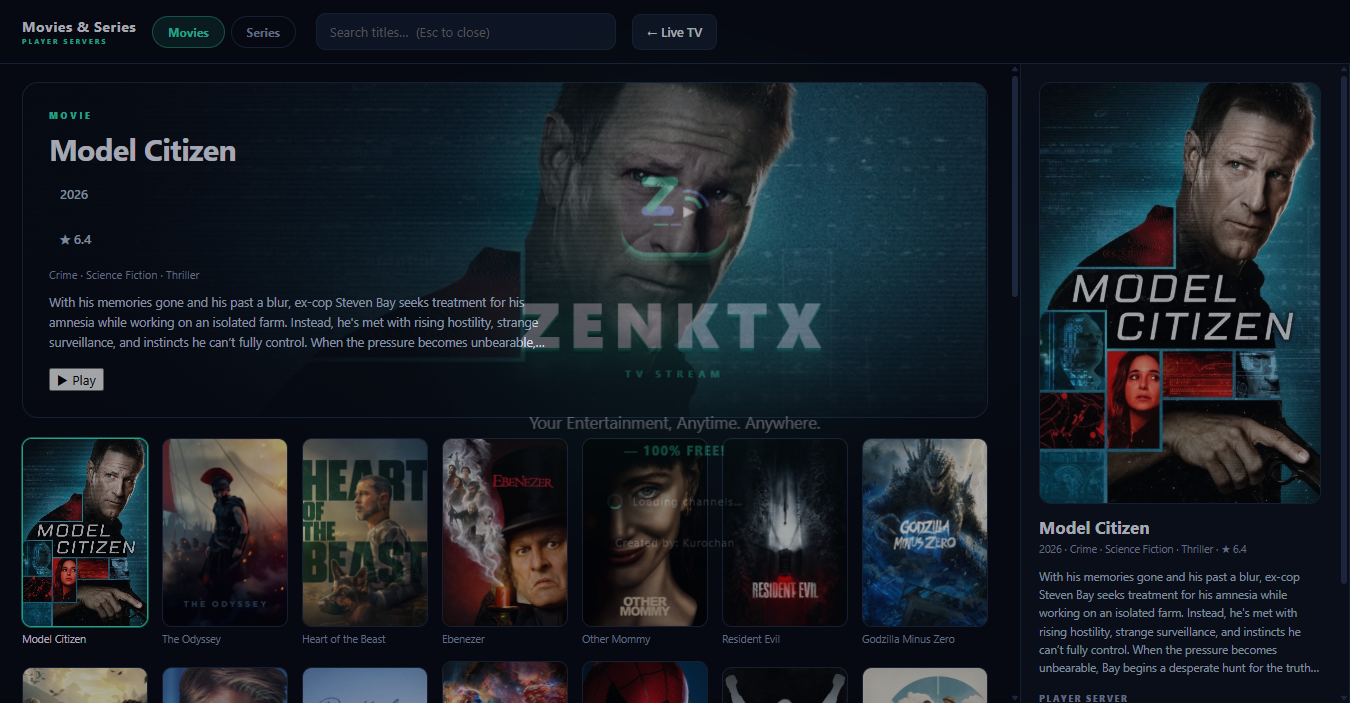
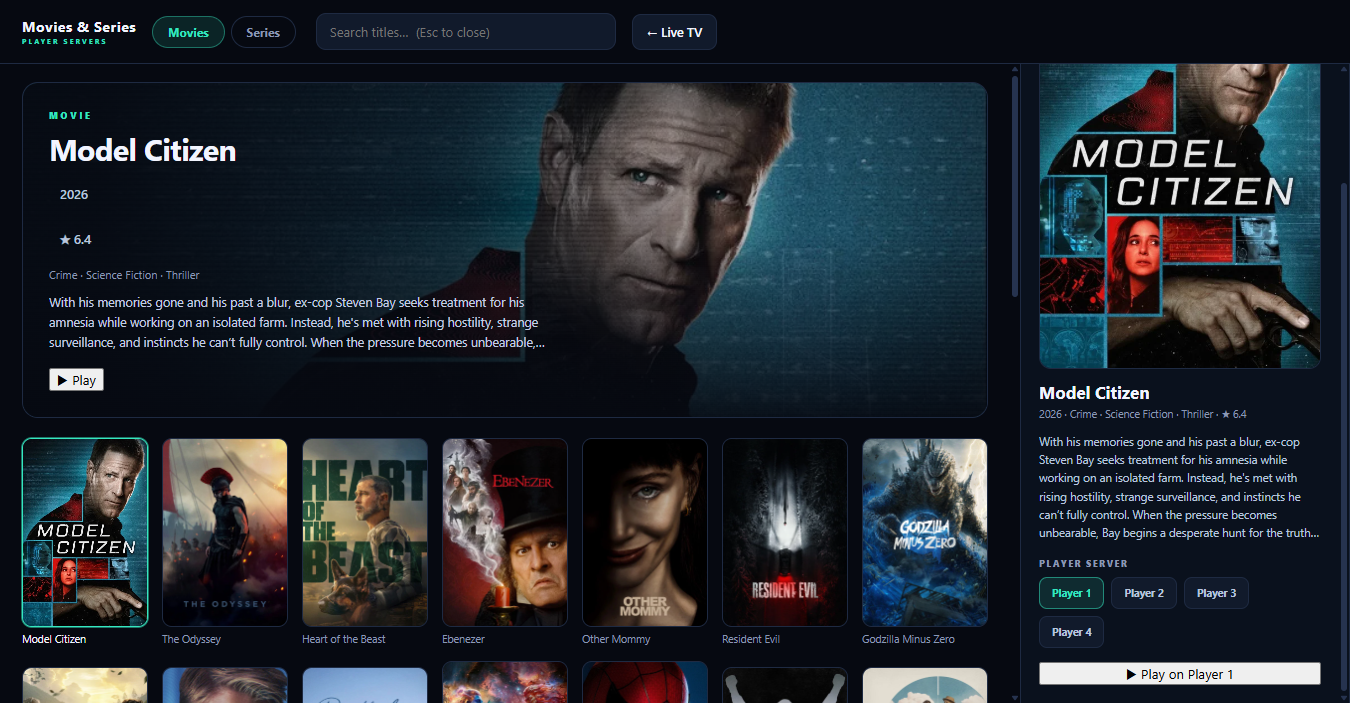
Hide the welcome panel under the poster wall
The Movies screen is opaque, so leaving the splash mounted underneath only
kept a composited layer alive for the rest of the session.

diff --git a/windows/renderer/movies.js b/windows/renderer/movies.js
@@ -384,6 +384,10 @@
       build();
       wire();
       $('movies').hidden = false;
+      // The welcome panel owns the first seconds of a launch; the poster wall is
+      // opaque on purpose, so leaving it underneath only costs a composited layer.
+      const splash = document.getElementById('splash');
+      if (splash) splash.style.display = 'none';
       $('mvHero').innerHTML = '<div class="mv-hero-empty">Loading the catalogue…</div>';
       try {
         await load();
